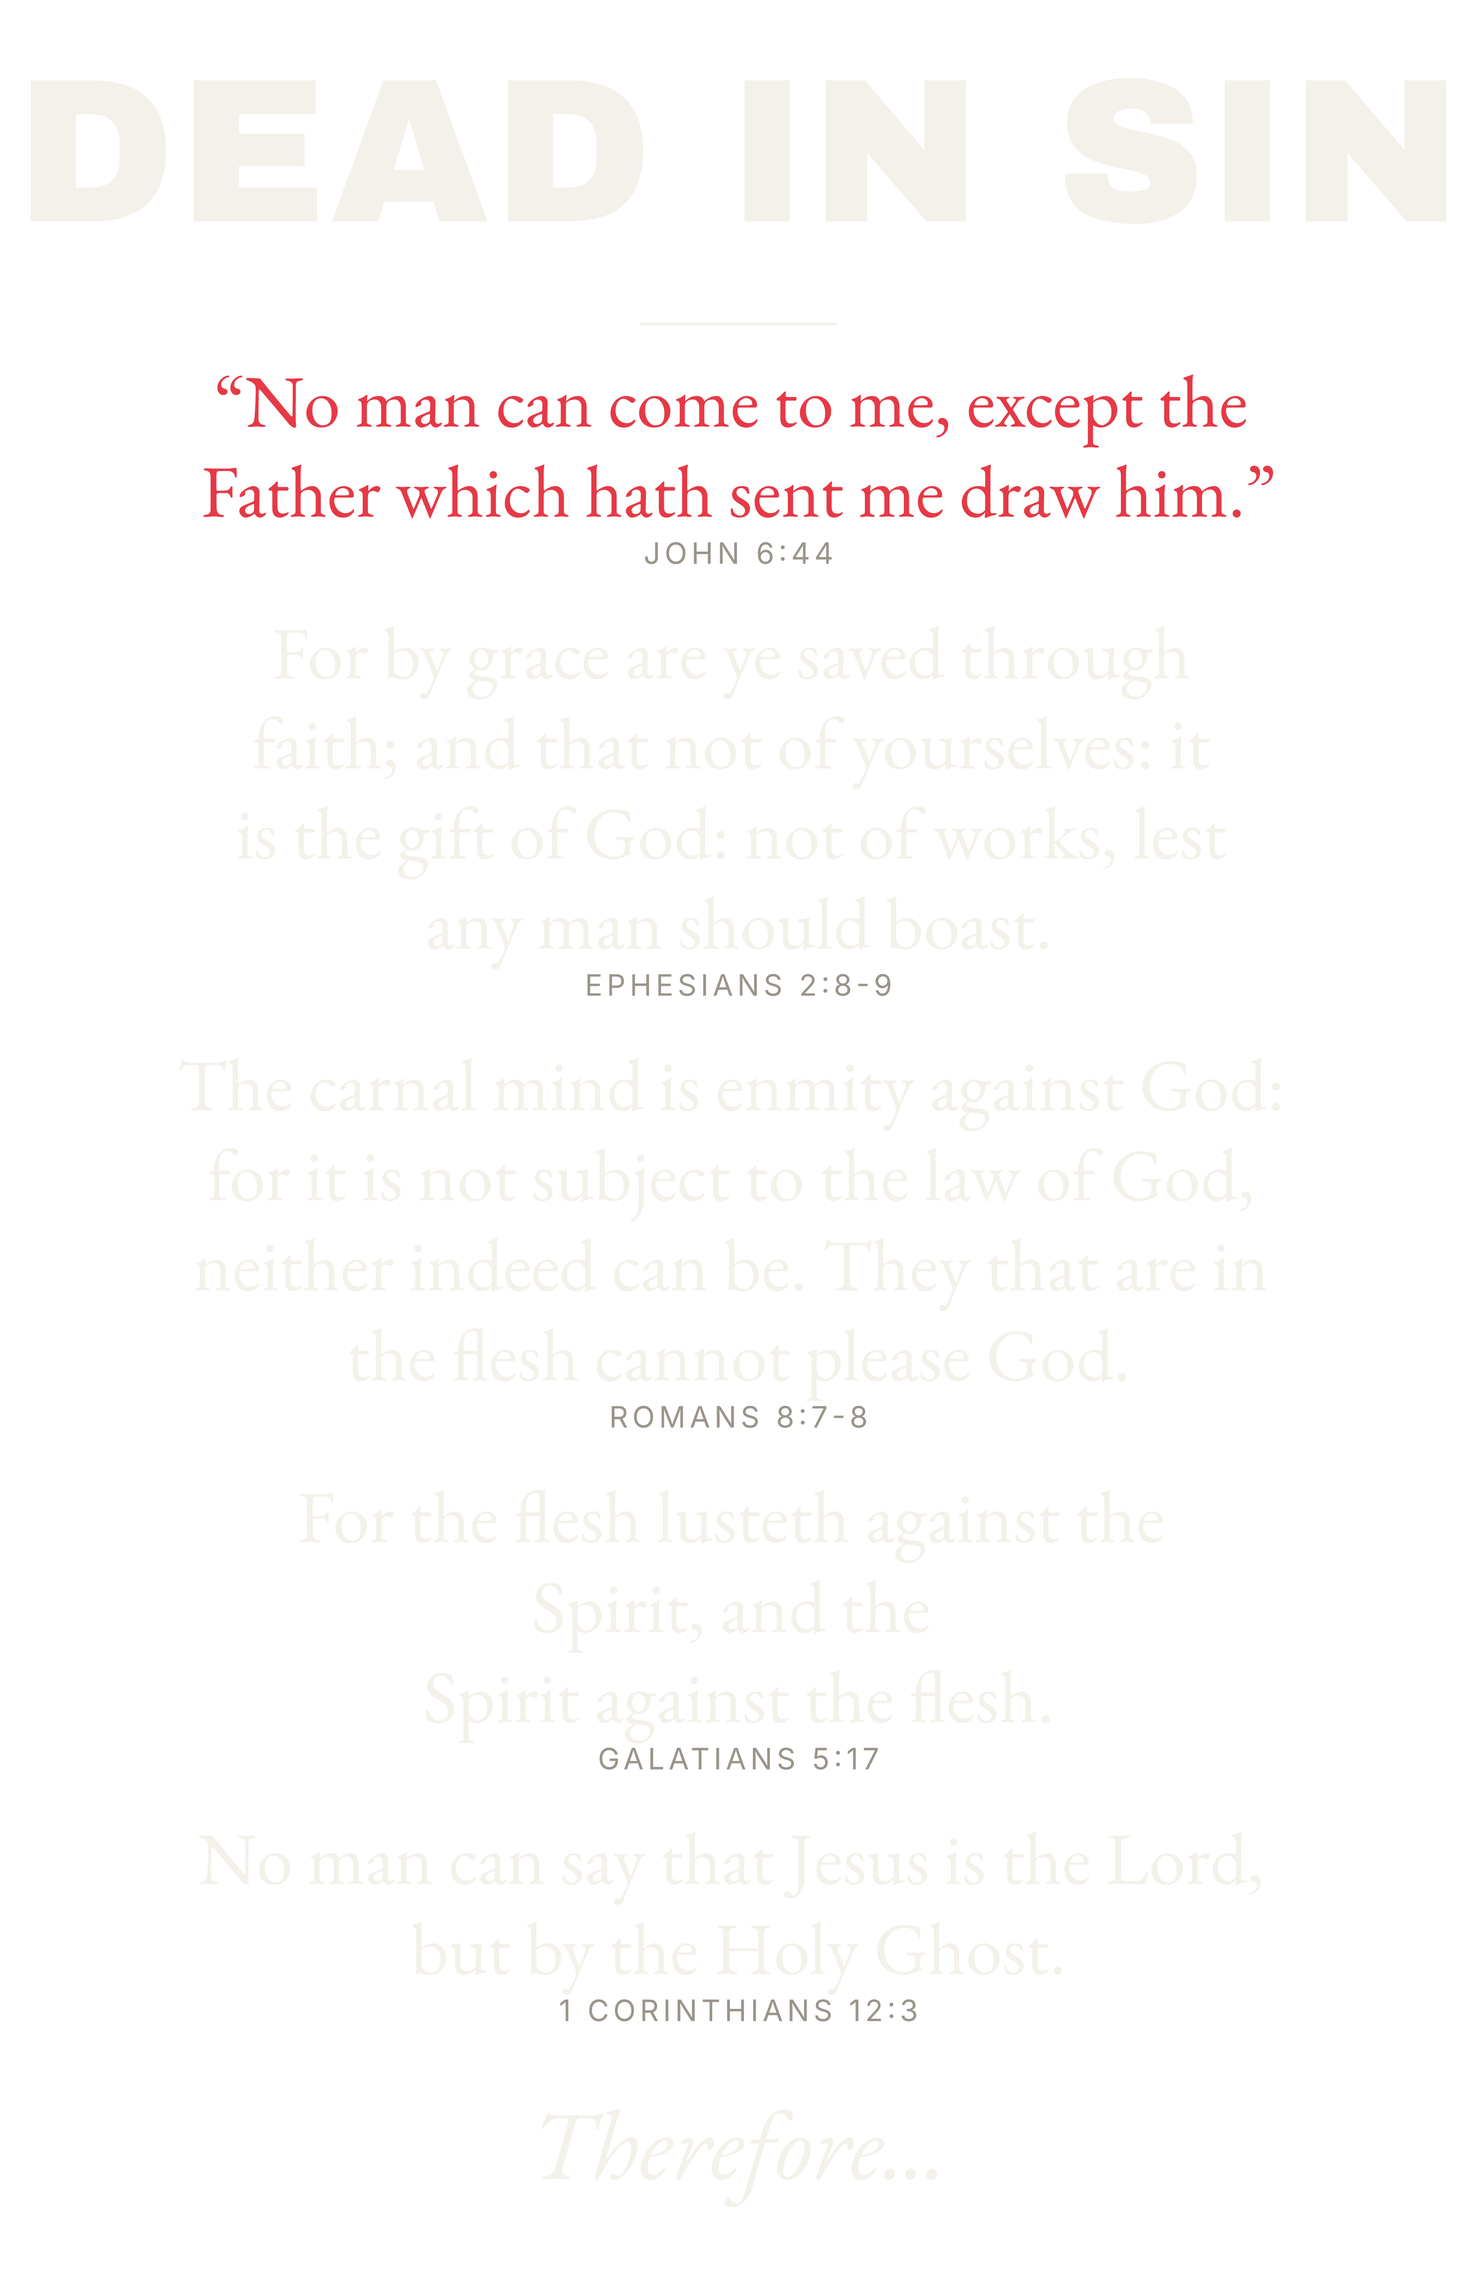
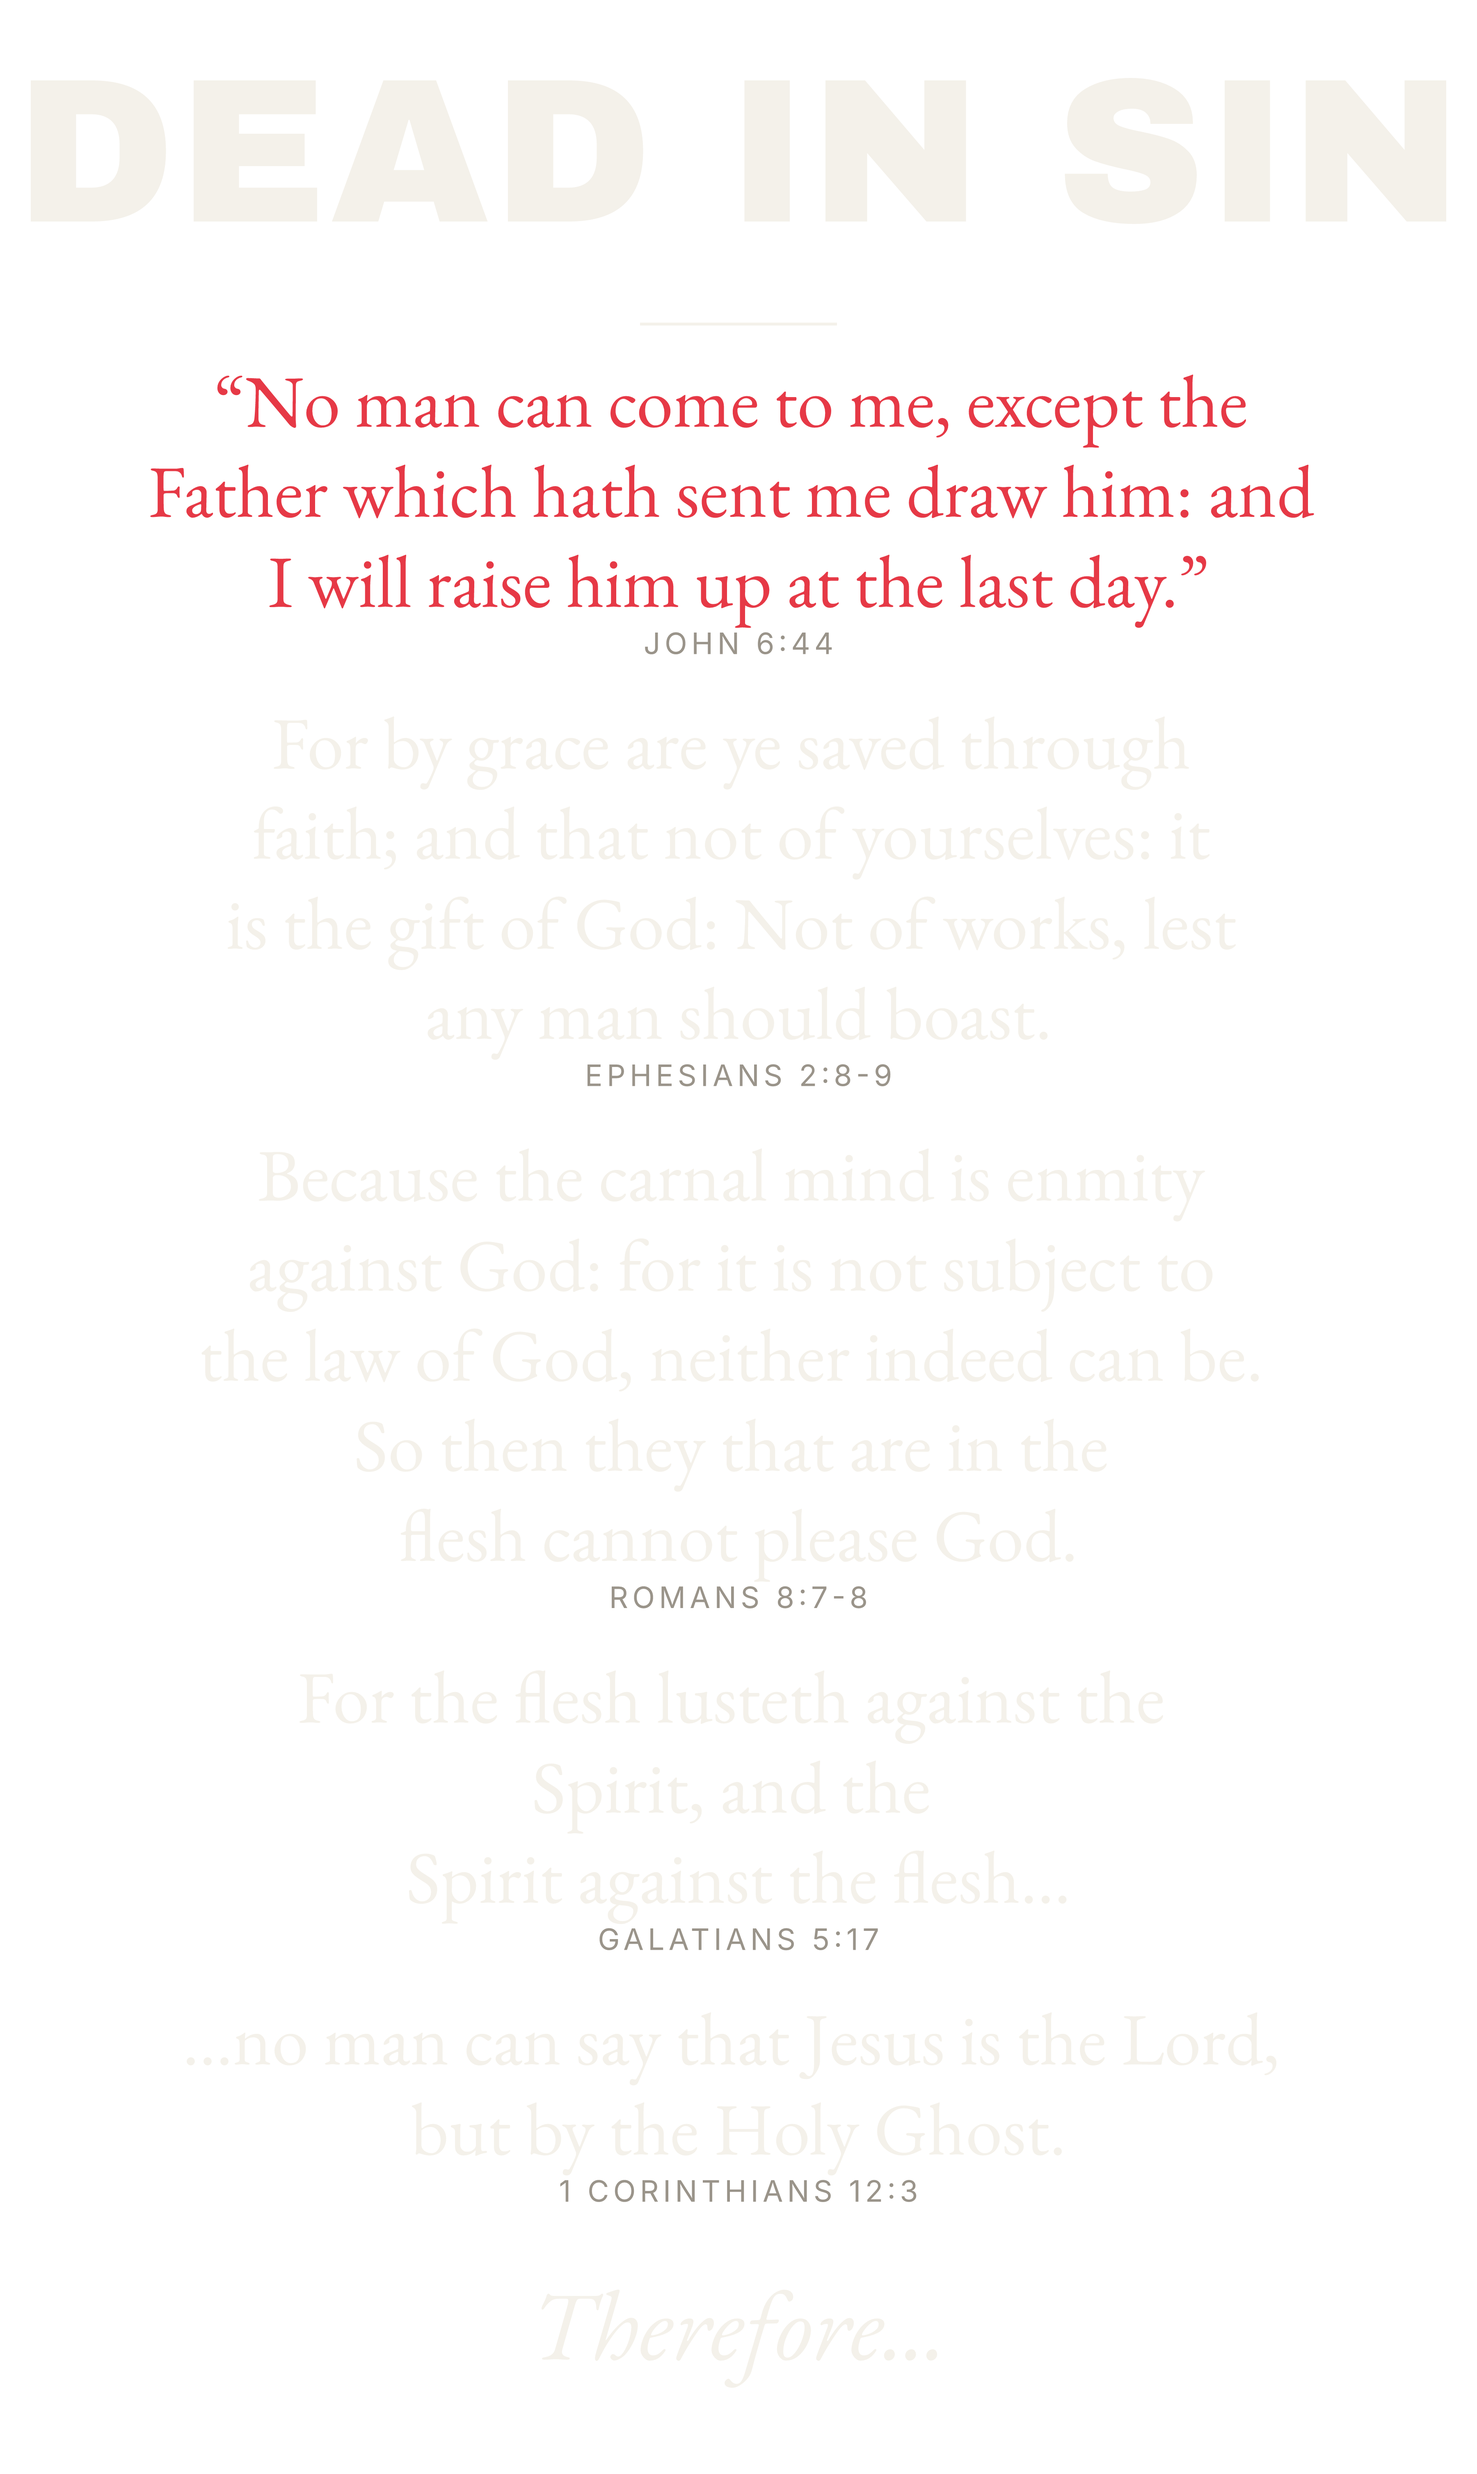
Restore verbatim KJV — undo the connector / punctuation edits
Earlier the front verses were trimmed for shirt brevity in ways that
strayed from the source: dropped "Because" and "So then" in Rom 8:7-8,
lowercased "Not" in Eph 2:9, capitalized "no" in 1 Cor 12:3 to make a
shirt-quote opener, swapped terminal colons to periods at clipped
endings.

Restored to verbatim KJV throughout:
- John 6:44 carries through to "...raise him up at the last day."
- Eph 2:8-9 keeps the capital "N" on "Not of works"
- Rom 8:7-8 restored "Because" and "So then"
- Gal 5:17 truncated with an ellipsis (no word changes)
- 1 Cor 12:3 leading ellipsis, lowercase "no" preserved

The catechism explanation on the back was already verbatim Triglotta;
audited and confirmed unchanged.

diff --git a/shirts/third-article.md b/shirts/third-article.md
@@ -11,19 +11,19 @@ back_heading: |
 ## Front
 
 ### John 6:44 {jesus}
-No man can come to me, except the Father which hath sent me draw him.
+No man can come to me, except the Father which hath sent me draw him: and I will raise him up at the last day.
 
 ### Ephesians 2:8-9
-For by grace are ye saved through faith; and that not of yourselves: it is the gift of God: not of works, lest any man should boast.
+For by grace are ye saved through faith; and that not of yourselves: it is the gift of God: Not of works, lest any man should boast.
 
 ### Romans 8:7-8
-The carnal mind is enmity against God: for it is not subject to the law of God, neither indeed can be. They that are in the flesh cannot please God.
+Because the carnal mind is enmity against God: for it is not subject to the law of God, neither indeed can be. So then they that are in the flesh cannot please God.
 
 ### Galatians 5:17
-For the flesh lusteth against the Spirit, and the Spirit against the flesh.
+For the flesh lusteth against the Spirit, and the Spirit against the flesh…
 
 ### 1 Corinthians 12:3
-No man can say that Jesus is the Lord, but by the Holy Ghost.
+…no man can say that Jesus is the Lord, but by the Holy Ghost.
 
 ### Closing
 Therefore...
